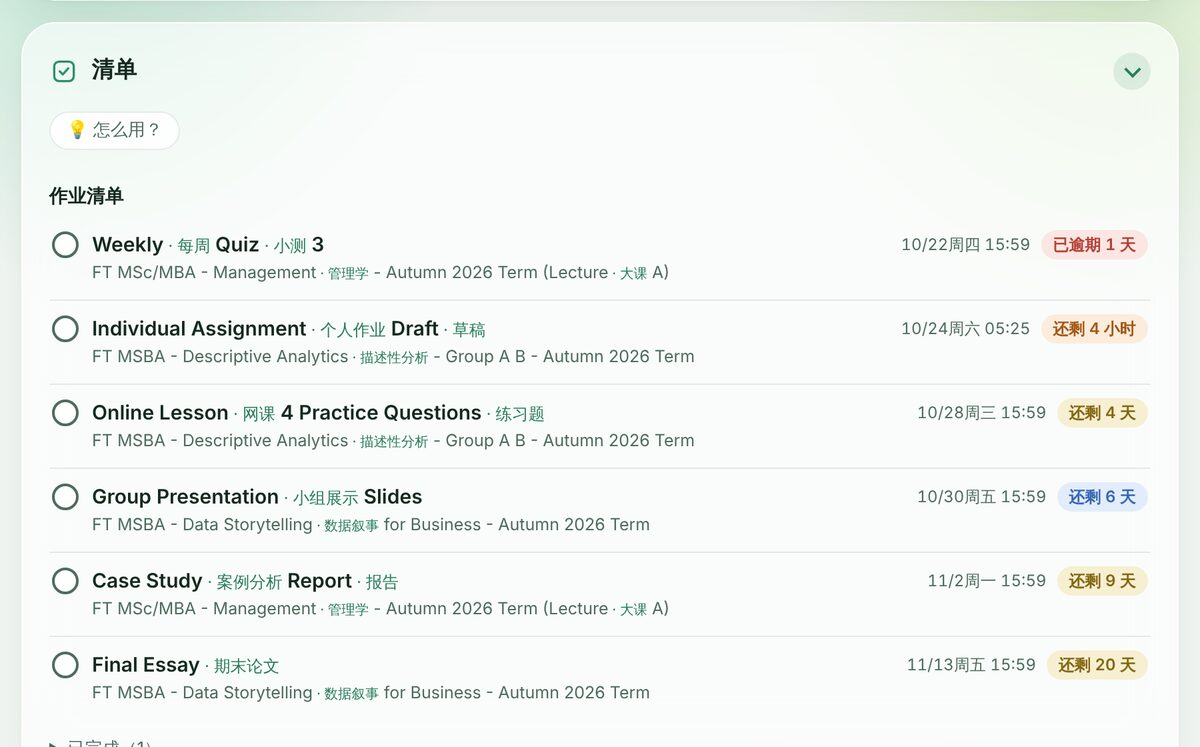
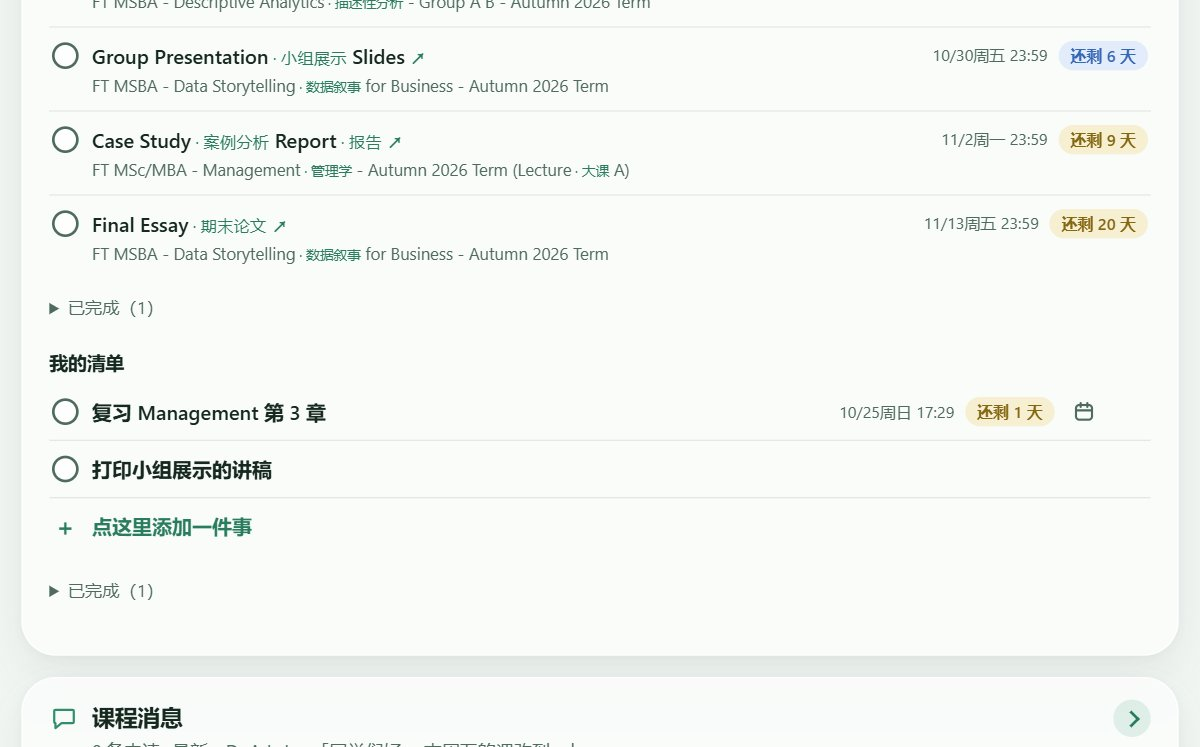
Update Bridgeboard slides to v0.3.0
Five new screenshots from demo mode (light look, 1200 x 747). The captions
for deadlines, course files and the checklist now mention what the new
pictures show: the ↗ link and × to ignore overdue work, ticking single
files, and the student's own to-dos.

diff --git a/index.html b/index.html
@@ -870,20 +870,20 @@
             <figcaption><span class="zh">一个页面看全：今天要注意的事、截止日期、课程文件、手机提醒</span><span class="en">Everything on one page: today's alerts, deadlines, files and phone alerts</span></figcaption>
           </figure>
           <figure class="slide" role="group" aria-roledescription="slide" aria-label="2 / 5">
-            <img src="assets/slide-deadlines.jpg" width="1200" height="747" alt="Bridgeboard 示例数据截图：截止日期按五种颜色排好，最急的在最上面" loading="lazy">
-            <figcaption><span class="zh">截止日期按五种颜色排好，最急的在最上面</span><span class="en">Deadlines sorted by colour, the most urgent first</span></figcaption>
+            <img src="assets/slide-deadlines.jpg" width="1200" height="747" alt="Bridgeboard 示例数据截图：截止日期按五种颜色排好，最急的在最上面；点 ↗ 打开 Blackboard，逾期的可以点 × 忽略" loading="lazy">
+            <figcaption><span class="zh">截止日期按五种颜色排好，最急的在最上面；点 ↗ 打开 Blackboard，逾期的可以点 × 忽略</span><span class="en">Deadlines by colour, the most urgent first; ↗ opens Blackboard, × stops reminders for overdue work</span></figcaption>
           </figure>
           <figure class="slide" role="group" aria-roledescription="slide" aria-label="3 / 5">
-            <img src="assets/slide-files.jpg" width="1200" height="747" alt="Bridgeboard 示例数据截图：勾选课程，课件按课程自动下载整理好" loading="lazy">
-            <figcaption><span class="zh">勾选课程，课件按课程自动下载整理好</span><span class="en">Tick your courses and the files download, sorted by course</span></figcaption>
+            <img src="assets/slide-files.jpg" width="1200" height="747" alt="Bridgeboard 示例数据截图：勾选课程或文件，课件按课程自动下载整理好" loading="lazy">
+            <figcaption><span class="zh">勾选课程或文件，课件按课程自动下载整理好</span><span class="en">Tick courses or single files and they download, sorted by course</span></figcaption>
           </figure>
           <figure class="slide" role="group" aria-roledescription="slide" aria-label="4 / 5">
             <img src="assets/slide-alerts.jpg" width="1200" height="747" alt="Bridgeboard 示例数据截图：快到期时提醒到你的手机（iPhone / 安卓）" loading="lazy">
             <figcaption><span class="zh">快到期时提醒到你的手机（iPhone / 安卓）</span><span class="en">Alerts on your phone before things are due</span></figcaption>
           </figure>
           <figure class="slide" role="group" aria-roledescription="slide" aria-label="5 / 5">
-            <img src="assets/slide-checklist.jpg" width="1200" height="747" alt="Bridgeboard 示例数据截图：作业自动进清单，交了自动打勾" loading="lazy">
-            <figcaption><span class="zh">作业自动进清单，交了自动打勾</span><span class="en">Assignments join your checklist and tick themselves when submitted</span></figcaption>
+            <img src="assets/slide-checklist.jpg" width="1200" height="747" alt="Bridgeboard 示例数据截图：作业自动进清单，交了自动打勾；也能写自己的待办" loading="lazy">
+            <figcaption><span class="zh">作业自动进清单，交了自动打勾；也能写自己的待办</span><span class="en">Assignments join your checklist and tick themselves when submitted; add your own to-dos too</span></figcaption>
           </figure>
         </div>
         <div class="car-controls">
